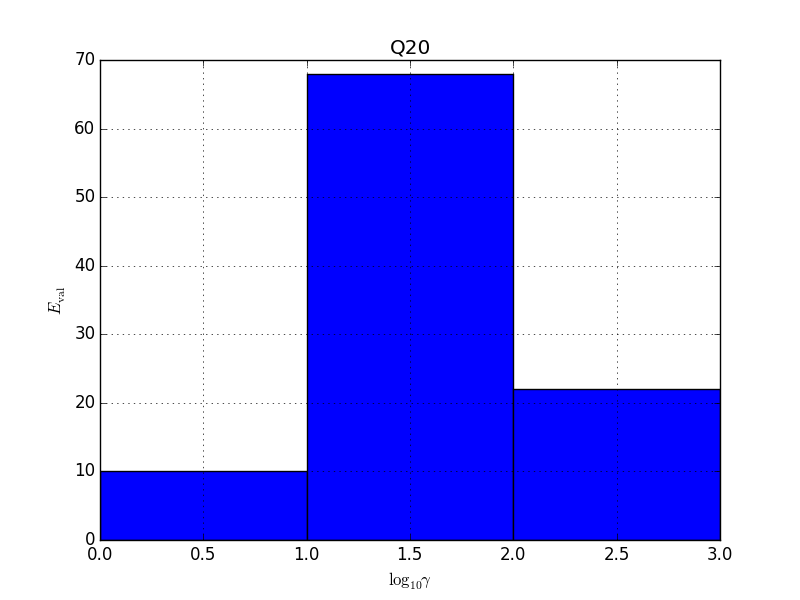
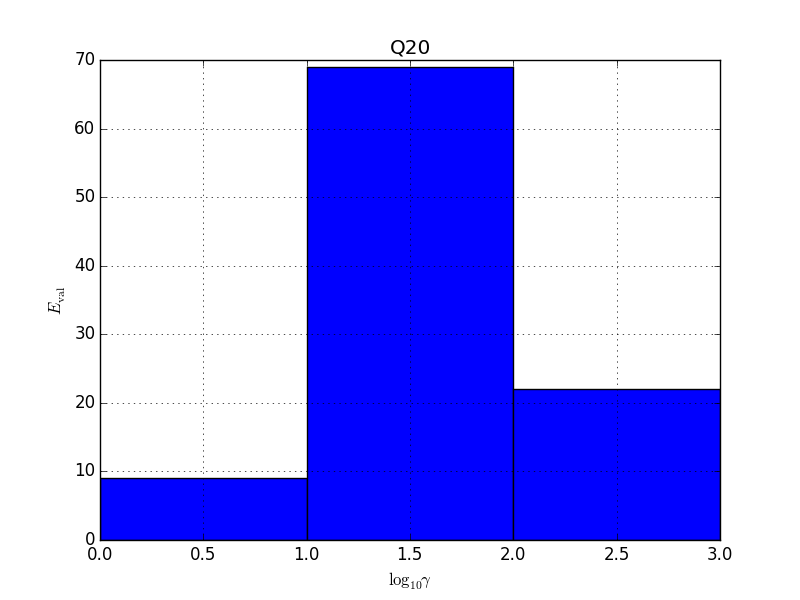
- HW5: version 1.3

Changed region(s): [[0.375, 0.09, 0.6562, 0.15], [0.125, 0.78, 0.4062, 0.81]]

diff --git a/Homework_5/ML_HW5_Programming/Q20.py b/Homework_5/ML_HW5_Programming/Q20.py
@@ -32,7 +32,6 @@ def eValCal():
     eValList = []
     for gamPower in gammaList:
         clf  = svm.SVC(C=0.1, kernel='rbf', gamma=(10 ** gamPower))
-        clf.fit(xTrain20, yTrain20)
         eVal = 1 - clf.fit(xTrain20, yTrain20).score(xValid20, yValid20)
         eValList.append(eVal)
     return np.argmin(eValList)
@@ -60,8 +59,8 @@ def main():
     plotHist(eValHist, r"$\log_{10}\gamma$", r'$E_{\mathrm{val}}$', "Q20", 1, False)
     eValHist = np.bincount(eValHist)
     eValHist = np.array(eValHist)
-    while len(eValHist) < 5:
-        eValHist = np.append(eValHist, 0)
+    # while len(eValHist) < 5:
+    #     eValHist = np.append(eValHist, 0)
     t1 = time.time()
 
     print '========================================================='

diff --git a/Homework_5/Answer Sheet for Homework 5.tex b/Homework_5/Answer Sheet for Homework 5.tex
@@ -569,7 +569,7 @@ The minimum occurs at $\gamma=10$. $E_{\text{out}}$ becomes larger as $\gamma$ b
 
 \subsection*{Problem 20}
 
-The most corresponding $\gamma$ of $\min E_{\text{val}}$ are 10, 68 times out of 100 repeats and 1: 10 times, 100: 22 times.
+The most corresponding $\gamma$ of $\min E_{\text{val}}$ are 10, 69 times out of 100 repeats and 1: 9 times, 100: 22 times.
 \begin{figure}[H]
 	\centering
 	\includegraphics[scale=0.5]{Q20.png}

diff --git a/Homework_5/ML_HW5_Programming/Q19.py b/Homework_5/ML_HW5_Programming/Q19.py
@@ -37,7 +37,6 @@ def main():
     t0 = time.time()
     for gamPower in gammaList:
         clf  = svm.SVC(C=0.1, kernel='rbf', gamma=(10 ** gamPower))
-        clf.fit(xTrain19, yTrain19)
         eOut = 1 - clf.fit(xTrain19, yTrain19).score(xTest19, yTest19)
         eOutList.append(eOut)
     plotHist(gammaList, eOutList, r"$\log_{10}\gamma$", r'$E_{\mathrm{out}}$', "Q19", 1, False)

diff --git a/Homework_5/ML_HW5_Programming/Q16.py b/Homework_5/ML_HW5_Programming/Q16.py
@@ -32,7 +32,6 @@ def main():
     t0 = time.time()
     for cPower in CList:
         clf = svm.SVC(C=(10 ** cPower), kernel='poly', degree=2, gamma=1, coef0=1)
-        clf.fit(x16, y16)
         eIn = 1 - clf.fit(x16, y16).score(x16, y16)
         eInList.append(eIn)
     plotHist(CList, eInList, r"$\log_{10}C$", r'$E_{\mathrm{in}}$', "Q16", 1, False)
